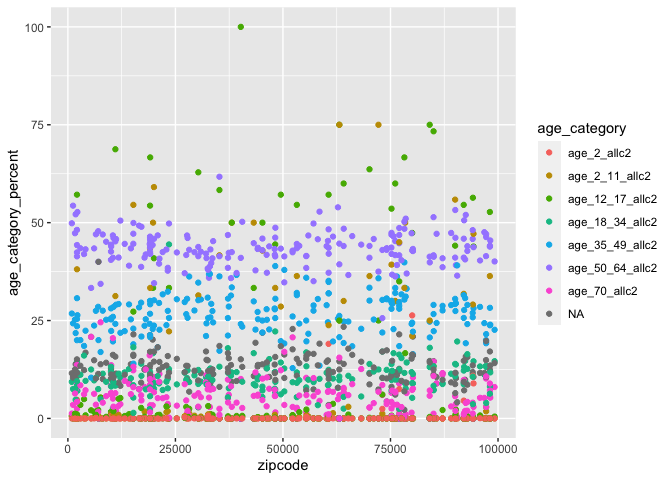
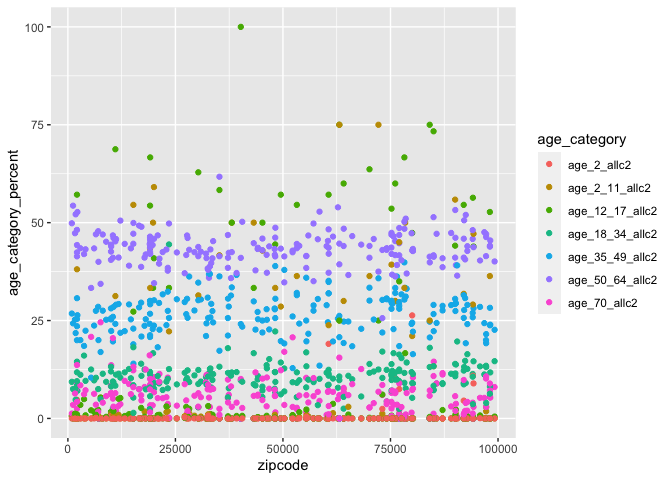
Correlation plots of PRA score and other variables.

diff --git a/code/KidneyDataMS.md b/code/KidneyDataMS.md
@@ -700,7 +700,7 @@ df_age_pivot =
     df_age, 
     age_2_11_allc2:age_70_allc2,
     names_to = "age_category", 
-    values_to = "age_category_percent") %>% mutate (age_category_percent = as.numeric(age_category_percent)) %>% mutate(age_category = factor(age_category, levels =c("age_2_allc2","age_2_11_allc2", "age_12_17_allc2", "age_18_34_allc2", "age_35_49_allc2", "age_50_64_allc2", "age_65_79_allc2", "age_70_allc2")))
+    values_to = "age_category_percent") %>% mutate (age_category_percent = as.numeric(age_category_percent)) %>% mutate(age_category = factor(age_category, levels =c("age_2_allc2","age_2_11_allc2", "age_12_17_allc2", "age_18_34_allc2", "age_35_49_allc2", "age_50_64_allc2", "age_65_79_allc2", "age_70_allc2"))) %>% drop_na()
 view(df_age_pivot)
 plot = df_age_pivot %>% ggplot(aes(x=zipcode, y =age_category_percent, color = age_category)) + geom_point()
 plot
@@ -783,7 +783,94 @@ plot = df_pra_pivot %>% ggplot(aes(x=zipcode, y =pra_category_percent, color = p
 plot
 ```
 
-![](KidneyDataMS_files/figure-gfm/unnamed-chunk-19-1.png)<!-- -->
+![](KidneyDataMS_files/figure-gfm/unnamed-chunk-19-1.png)<!-- --> Now I
+will merge the pra and comorbidities dataframes and examine for
+correlations.
+
+``` r
+df_pra_comorbid = merge(df_pra_pivot, df_comorbidities_pivot)
+view(df_pra_comorbid)
+plot = df_pra_comorbid %>% ggplot(aes(x=comorbidity_category_percent, y =pra_category_percent, color =pra_category)) + geom_point() + facet_wrap(~comorbidity_category)
+plot
+```
+
+![](KidneyDataMS_files/figure-gfm/unnamed-chunk-20-1.png)<!-- -->
+
+``` r
+#png('pra_comorbidity.png')
+```
+
+Overall, there is no correlation with pra score and comorbidities.
+
+Now I will merge the pra and age dataframes and examine for
+correlations.
+
+``` r
+df_pra_age = merge(df_pra_pivot, df_age_pivot)
+view(df_pra_age)
+plot = df_pra_age %>% ggplot(aes(x=age_category_percent, y =pra_category_percent, color =pra_category)) + geom_point() + facet_wrap(~age_category)
+plot
+```
+
+![](KidneyDataMS_files/figure-gfm/unnamed-chunk-21-1.png)<!-- -->
+
+``` r
+#png('pra_comorbidity.png')
+```
+
+Overall, there is no correlation with pra score and age.
+
+Now I will merge the pra and gender dataframes and examine for
+correlations.
+
+``` r
+df_pra_gender = merge(df_pra_pivot, df_gender_pivot)
+view(df_pra_gender)
+plot = df_pra_gender %>% ggplot(aes(x=gender_category_percent, y =pra_category_percent, color =pra_category)) + geom_point() + facet_wrap(~gender_category)
+plot
+```
+
+![](KidneyDataMS_files/figure-gfm/unnamed-chunk-22-1.png)<!-- -->
+
+``` r
+#png('pra_comorbidity.png')
+```
+
+Overall, there is no correlation with pra score and gender.
+
+Now I will merge the pra and demographics dataframes and examine for
+correlations.
+
+``` r
+df_pra_demographics = merge(df_pra_pivot, df_demographics_pivot)
+view(df_pra_demographics)
+plot = df_pra_demographics %>% ggplot(aes(x=race_category_percent, y =pra_category_percent, color =pra_category)) + geom_point() + facet_wrap(~race_category)
+plot
+```
+
+![](KidneyDataMS_files/figure-gfm/unnamed-chunk-23-1.png)<!-- -->
+
+``` r
+#png('pra_comorbidity.png')
+```
+
+Overall, there is no correlation with pra score and race.
+
+Now I will merge the pra and blood type dataframes and examine for
+correlations.
+
+``` r
+df_pra_blood_type = merge(df_pra_pivot, df_blood_type_pivot)
+view(df_pra_blood_type)
+plot = df_pra_blood_type %>% ggplot(aes(x=blood_type_category_percent, y =pra_category_percent, color =pra_category)) + geom_point() + facet_wrap(~blood_type_category)
+plot
+```
+
+![](KidneyDataMS_files/figure-gfm/unnamed-chunk-24-1.png)<!-- -->
+
+``` r
+#png('pra_comorbidity.png')
+```
 
 Now I will make tables
 
